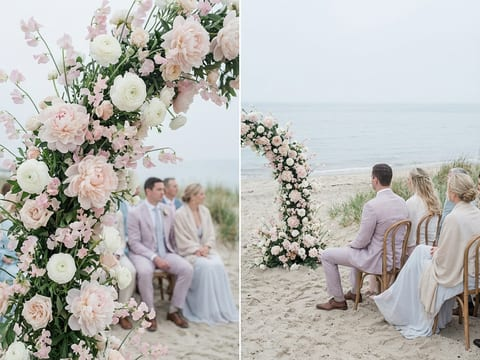
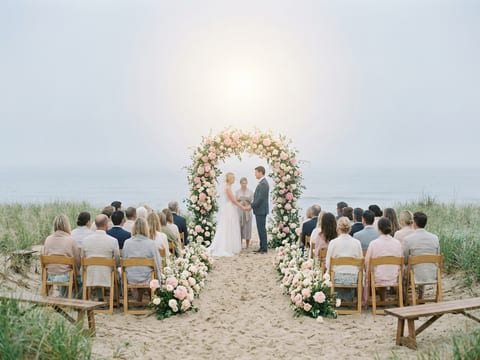
Fix split-screen on guests-large and season-spring quiz images
Added explicit "one continuous scene, no split panels, no collage" to both
prompts. Gemini defaults to composite layouts when a prompt implies multiple
elements — negative constraints prevent it.

diff --git a/scripts/content-engine/gen-quiz-images.js b/scripts/content-engine/gen-quiz-images.js
@@ -59,7 +59,7 @@ const QUIZ_IMAGES = [
   },
   {
     key: 'season-spring',
-    prompt: 'Early spring beach wedding at soft morning light — a floral arch overflowing with blush peonies, white ranunculus and pale pink sweet peas, guests in light pastel dresses and linen suits, cool fresh air, the sea a calm pale grey-blue. Delicate, dewy, cool-toned editorial photography — nothing hot or tropical, just gentle and fresh.',
+    prompt: 'A single photograph of a beach wedding ceremony in soft spring morning light — one continuous scene, no split panels, no collage. A floral arch of blush peonies and white ranunculus frames the couple, guests seated on either side in pastel linen, the sea a calm pale grey-blue behind everything. Cool, dewy, gentle light — not hot or tropical. Editorial photography.',
   },
   {
     key: 'season-summer',
@@ -88,7 +88,7 @@ const QUIZ_IMAGES = [
   {
     key: 'guests-large',
     portrait: true,
-    prompt: 'Grand beachfront wedding reception with 100+ guests — long banquet tables on a manicured lawn, spectacular ocean resort in the background, towering floral arrangements, festive and celebratory. Editorial photography.',
+    prompt: 'A single wide-angle photograph of a grand beachfront wedding reception — one continuous scene, no split panels, no collage. Dozens of guests seated at long tables on a resort lawn, the ocean directly behind them, towering white floral arrangements, festive and celebratory atmosphere. Taken from a slightly elevated angle to show the scale. Editorial photography.',
   },
 
   // Budget options (portrait cards in the UI)
